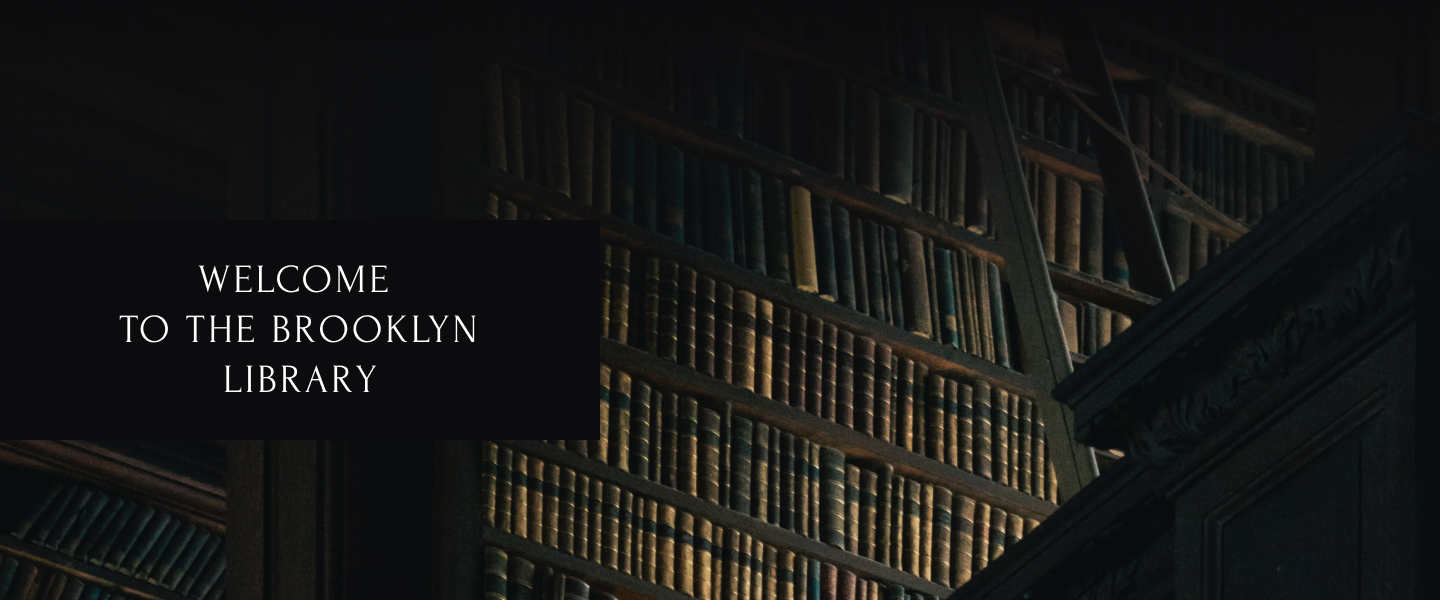
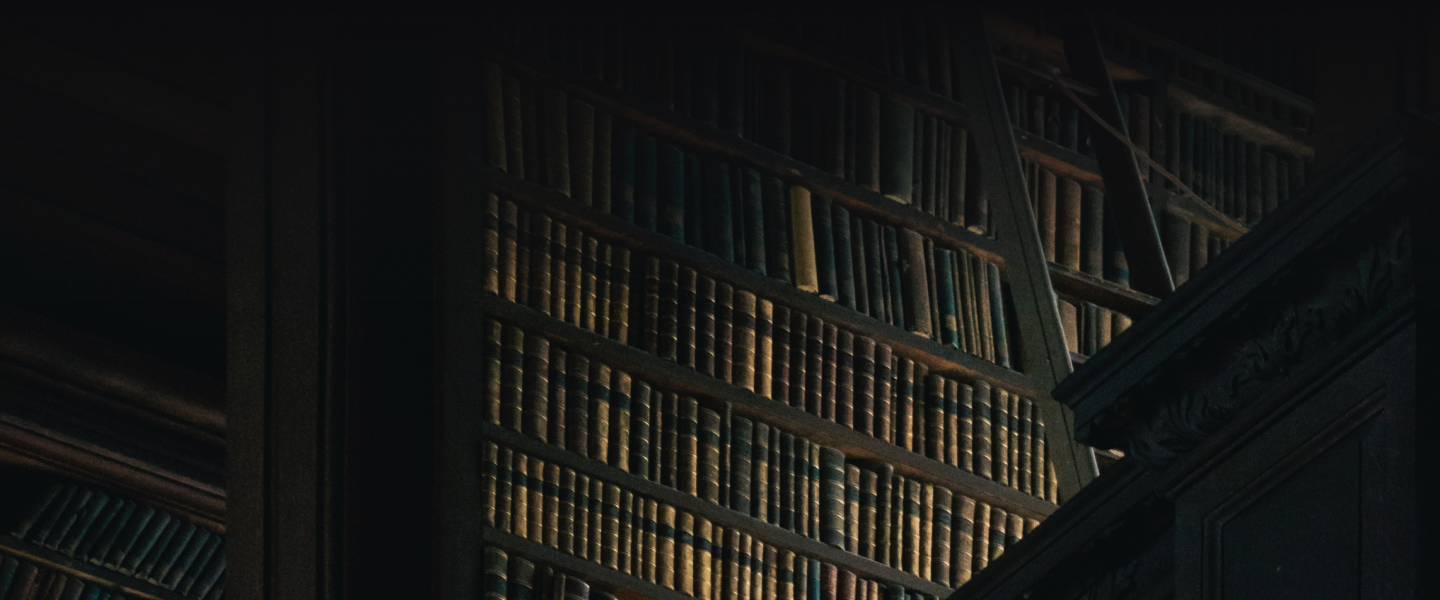
feat: 'add main>sections'

diff --git a/library/index.html b/library/index.html
@@ -8,7 +8,7 @@
 <body>
     <header class="header">
         <div class="wrapper">
-            <a href="#" target="_blank"><h2 class="nameLib">Brooklyn Public Library</h2></a>
+            <a href="#" target="_blank"><h1 class="nameLib">Brooklyn Public Library</h1></a>
             <nav class="navigation">
                 <ul class="nav_list">
                     <li class="list_section"><a href="#">About</a></li>
@@ -21,7 +21,160 @@
             <a href="#" class="your_prof"><img src="./assets/svg/icon_profile.svg" alt="icon_prof" class="icon_prof"></>
         </div>
     </header>
-    <main class="main"></main>
+    <main class="main">
+        <section class="welcom">
+            <div class="welcomBlock_bg">
+                <h2 class="welcom_text">Welcome to the Brooklyn Library</h2>
+            </div>
+            <img src="./assets/png/Welcome.png" alt="welcom" class="welcom_bg">
+        </section>
+        <section class="about">
+            <div class="wrapper">
+                <h2 class="about_title">About</h2>
+                <p class="about_text">The Brooklyn Library is a free workspace, a large number of books and a cozy coffee shop inside </p>
+                <div class="about_carusel">
+                    <img src="./assets/jpeg/about_image 1.jpg" alt="about_img1" class="about_img1">
+                    <img src="./assets/jpeg/about_image 2.jpg" alt="about_img2" class="about_img1">
+                    <img src="./assets/jpeg/about_image 3.jpg" alt="about_img3" class="about_img1">
+                </div>
+                <div class="carusel_pagination">
+                    <div class="pagination1"></div>
+                    <div class="pagination2"></div>
+                    <div class="pagination3"></div>
+                </div>
+            </div>
+        </section>
+        <section class="favorites">
+            <div class="wrapper">
+                <h2 class="favorites_title">Favorites</h2>
+                <p class="favorites_pick">Pick favorites of season<p/>
+                <div class="fav_inteac_btn">
+                    <input type="radio" id="winter"><label for="winter">Winter</label>
+                    <input type="radio" id="spring"><label for="spring">Spring</label>
+                    <input type="radio" id="summer"><label for="summer">Summer</label>
+                    <input type="radio" id="autumn"><label for="autumn">Autumn</label>
+                </div>
+                <div class="grid">
+                    <div class="first_book">
+                        <div class="bg-description">
+                            <h5 class="staff_picks">Staff Picks</h3>
+                            <h3 class="book_title">The Book Eaters</h3>
+                            <h4 class="autor">By Sunyi Dean</h4>
+                            <p class="description">An unusual sci-fi story about a book eater woman who tries desperately to save her dangerous mind-eater son from tradition and certain death. Complete with dysfunctional family values, light Sapphic romance, and a strong, complex protagonist. Not for the faint of heart.</p>
+                            <button class="buy_book">Buy</button>
+                        </div>
+                        <img src="./assets/jpeg/book1.jpg" alt="book1" class="book1">
+                    </div>
+                    <div class="second_book">
+                        <div class="bg-description">
+                            <h5 class="staff_picks">Staff Picks</h3>
+                            <h3 class="book_title">Cackle</h3>
+                            <h4 class="autor">By Rachel Harrison</h4>
+                            <p class="description">Are your Halloween movies of choice The Witches of Eastwick and Practical Magic? Look no further than here - where a woman recovering from a breakup moves to a quaint town in upstate New York and befriends a beautiful witch.</p>
+                            <button class="buy_book">Buy</button>
+                        </div>
+                        <img src="./assets/jpeg/book2.jpg" alt="book2" class="book2">
+                    </div>
+                    <div class="third_book">
+                        <div class="bg-description">
+                            <h5 class="staff_picks">Staff Picks</h3>
+                            <h3 class="book_title">Dante: Poet of the Secular World</h3>
+                            <h4 class="autor">By Erich Auerbach</h4>
+                            <p class="description">Auerbach's engaging book places the 'Comedy' within the tradition of epic, tragedy, and philosophy in general, arguing for Dante's uniqueness as one who raised the individual and his drama of soul into something of divine significance—an inspired introduction to Dante's main themes.</p>
+                            <button class="buy_book">Buy</button>
+                        </div>
+                        <img src="./assets/jpeg/book3.jpg" alt="book3" class="book3">
+                    </div>
+                    <div class="fourth_book">
+                        <div class="bg-description">
+                            <h5 class="staff_picks">Staff Picks</h3>
+                            <h3 class="book_title">The Last Queen</h3>
+                            <h4 class="autor">By Clive Irving</h4>
+                            <p class="description">A timely and revelatory new biography of Queen Elizabeth (and her family) exploring how the Windsors have evolved and thrived as the modern world has changed around them.</p>
+                            <button class="own_book">Buy</button>
+                        </div>
+                        <img src="./assets/jpeg/book4.jpg" alt="book4" class="book4">
+                    </div>
+                </div>
+            </div>
+        </section>
+        <section class="coffeShop">
+            <div class="wrapper">
+                <h2 class="coffeShop_title">Coffee shop</h2>
+                <p class="coffeShop_text">In our library, we have of cozy coffee shop, welcoming in customers with frothy cappuccinos and friendly conversation.
+                    you can get a favorite book and read in coffee shop. Our barista to cook you best coffee, and also you can try desserts from bakery.
+                </p>
+                <div class="coffeShop_menu">
+                    <div class="coffeTea">
+                        <h3 class="menu_title">Coffee & Tea </h3>
+                        <div class="menu_position">
+                            <p class="name_position">Cold Brew Coffee</p>
+                            <div class="menu_line"></div>
+                            <p class="menu_price">$3</p>
+                        </div>
+                        <div class="menu_position">
+                            <p class="name_position">French Press Pot</p>
+                            <div class="menu_line"></div>
+                            <p class="menu_price">$5</p>
+                        </div>
+                        <div class="menu_position">
+                            <p class="name_position">Espresso/p>
+                            <div class="menu_line"></div>
+                            <p class="menu_price">$2</p>
+                        </div>
+                        <div class="menu_position">
+                            <p class="name_position">Cappuccino</p>
+                            <div class="menu_line"></div>
+                            <p class="menu_price">$4</p>
+                        </div>
+                        <div class="menu_position">
+                            <p class="name_position">Hot tea/p>
+                            <div class="menu_line"></div>
+                            <p class="menu_price">$2</p>
+                        </div>
+                        <div class="menu_position">
+                            <p class="name_position">Cold tea</p>
+                            <div class="menu_line"></div>
+                            <p class="menu_price">$2</p>
+                        </div>
+                    </div>
+                    <div class="dessertsCakes">
+                        <h3 class="menu_title">Desserts & Cakes</h3>
+                        <div class="menu_position">
+                            <p class="name_position">Forest Gateau</p>
+                            <div class="menu_line"></div>
+                            <p class="menu_price">$16</p>
+                        </div>
+                        <div class="menu_position">
+                            <p class="name_position">Blue Moon</p>
+                            <div class="menu_line"></div>
+                            <p class="menu_price">$16</p>
+                        </div>
+                        <div class="menu_position">
+                            <p class="name_position">Truffle Cake</p>
+                            <div class="menu_line"></div>
+                            <p class="menu_price">$15</p>
+                        </div>
+                        <div class="menu_position">
+                            <p class="name_position">Chocolate Cake</p>
+                            <div class="menu_line"></div>
+                            <p class="menu_price">$18</p>
+                        </div>
+                        <div class="menu_position">
+                            <p class="name_position">Poet’s Dream Cake</p>
+                            <div class="menu_line"></div>
+                            <p class="menu_price">$16</p>
+                        </div>
+                        <div class="menu_position">
+                            <p class="name_position">Pineapple Cake</p>
+                            <div class="menu_line"></div>
+                            <p class="menu_price">$14</p>
+                        </div>
+                    </div>
+                </div>
+            </div>
+        </section>
+    </main>
     <footer class="footer"></footer>
 
 </body>
